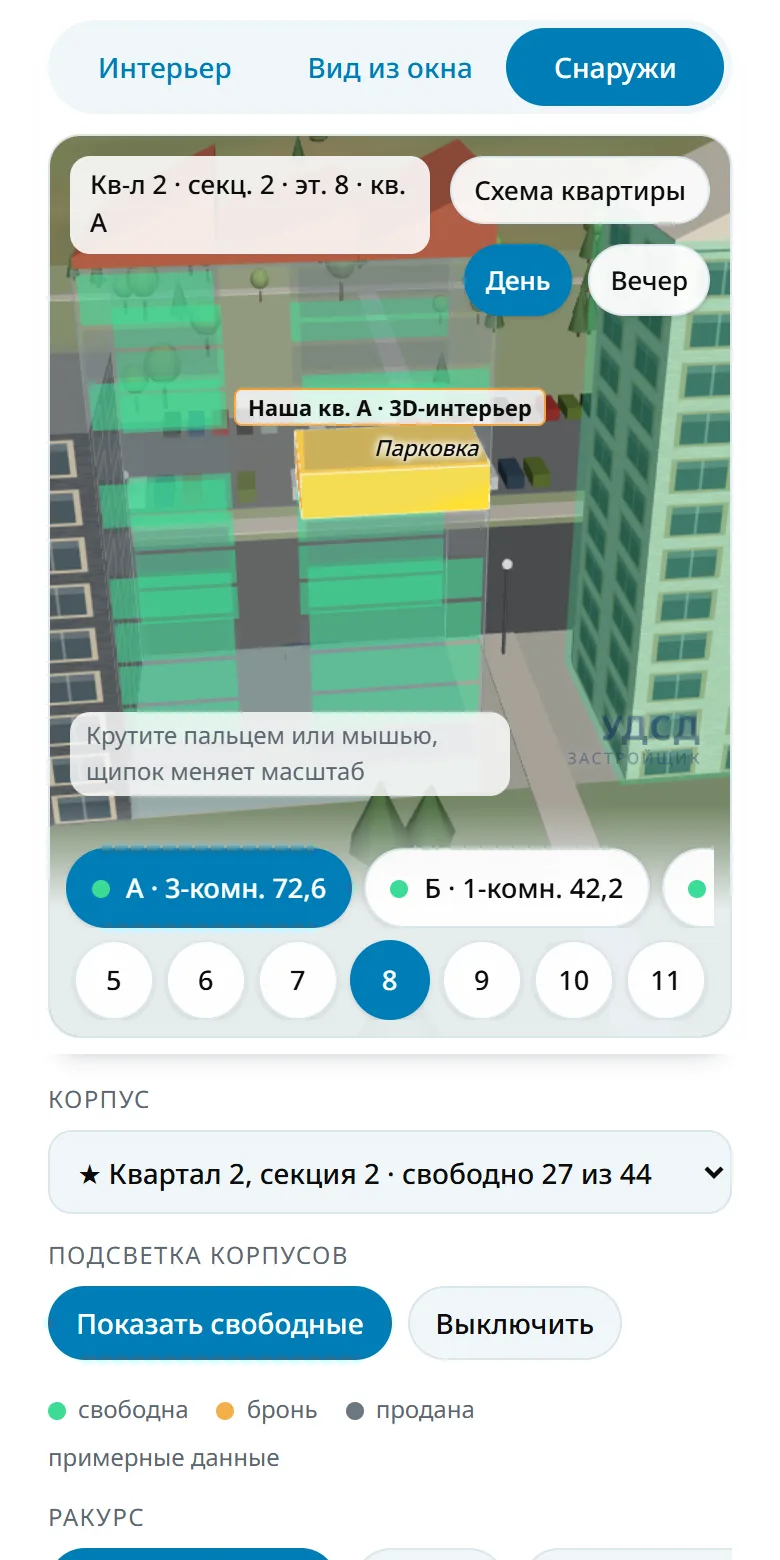
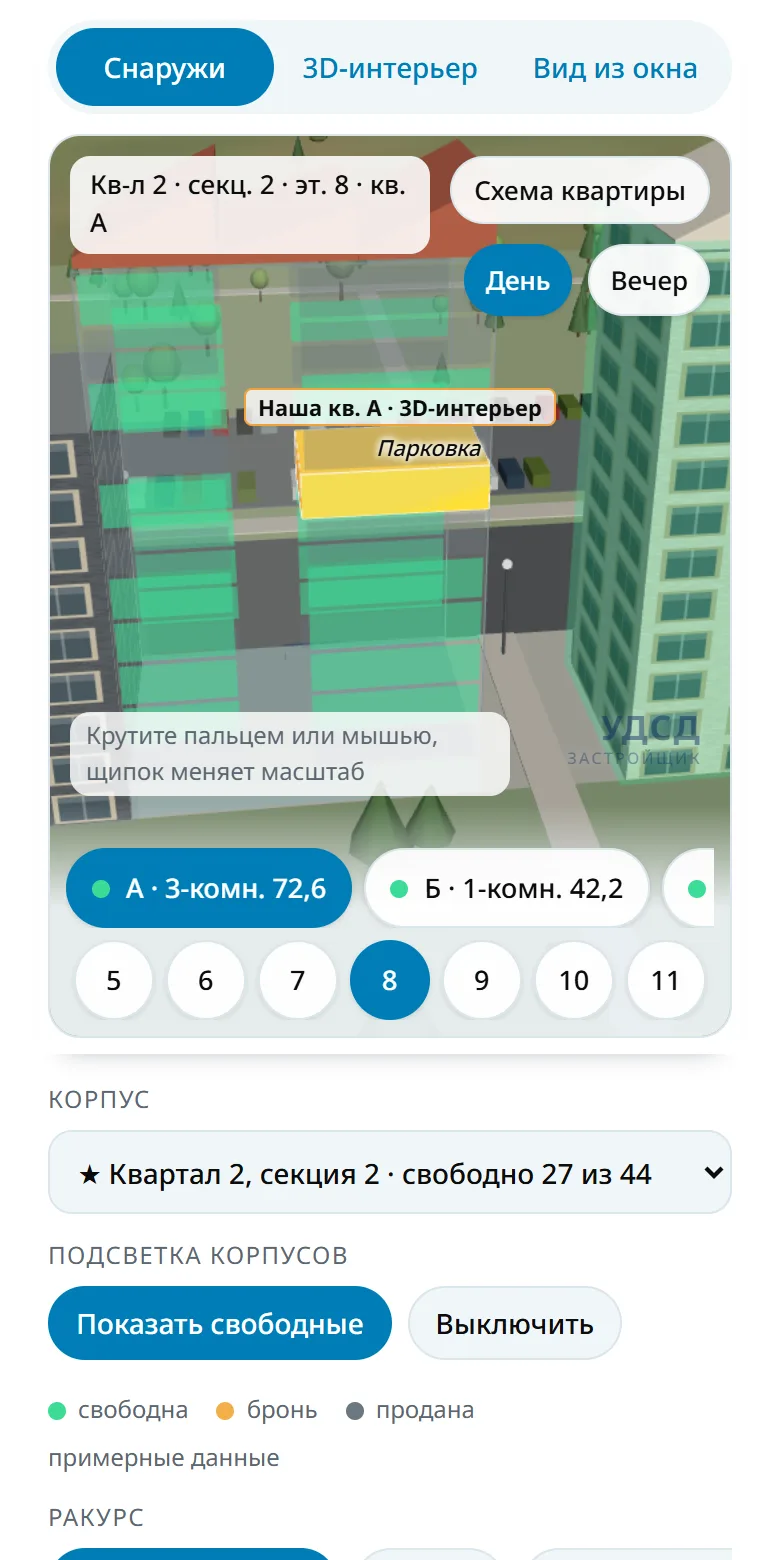
Демо: вкладки Снаружи → 3D-интерьер → Вид из окна, старт снаружи
Экраны в КП переставлены в том же порядке; tools/mockups.js и tools/screens.js учитывают новый старт.

diff --git a/index.html b/index.html
@@ -214,16 +214,16 @@ footer{border-top:1px solid var(--line);padding:32px 0 40px;margin-top:20px}
         <b><span>01</span>Свободные квартиры</b><p>Корпуса со свободными квартирами подсвечены, на каждом — сколько свободно.</p></li>
       <li><div class="phone"><img src="img/mock-facade.webp" width="780" height="1560" loading="lazy" alt="Дом полупрозрачный, выбранная квартира на 8 этаже выделена, внизу кнопки квартир и этажей"></div>
         <b><span>02</span>Выбор на фасаде</b><p>Дом прозрачный, квартира выделена. Этаж и квартира — кнопками на сцене.</p></li>
+      <li><div class="phone"><img src="img/mock-city.webp" width="780" height="1560" loading="lazy" alt="Карта Нового Уренгоя: микрорайоны, Северная и Южная части города, реки и дороги, отмечен ЖК «Новелла»"></div>
+        <b><span>03</span>Весь город</b><p>Микрорайоны, части города, реки и дороги — где дом относительно всего.</p></li>
       <li><div class="phone"><img src="img/mock-design.webp" width="780" height="1560" loading="lazy" alt="Трёхкомнатная квартира сверху со срезанными стенами, мебель дизайн-проекта и площади комнат"></div>
-        <b><span>03</span>Интерьер с дизайном</b><p>Вся квартира сверху, стены срезаны. Площадь каждой комнаты.</p></li>
+        <b><span>04</span>3D-интерьер с дизайном</b><p>Вся квартира сверху, стены срезаны. Площадь каждой комнаты.</p></li>
       <li><div class="phone"><img src="img/mock-bare.webp" width="780" height="1560" loading="lazy" alt="Гостиная в предчистовой отделке с уровня глаз, мини-карта квартиры"></div>
-        <b><span>04</span>«Как продаем»</b><p>Предчистовая отделка с уровня глаз. Прогулка касанием по полу.</p></li>
-      <li><div class="phone"><img src="img/mock-window.webp" width="780" height="1560" loading="lazy" alt="Вид из окна гостиной с 8 этажа на соседние дома"></div>
-        <b><span>05</span>Вид из окна</b><p>С выбранного этажа и из каждой комнаты, днём и вечером.</p></li>
+        <b><span>05</span>«Как продаем»</b><p>Предчистовая отделка с уровня глаз. Прогулка касанием по полу.</p></li>
       <li><div class="phone"><img src="img/mock-plan.webp" width="780" height="1560" loading="lazy" alt="План этажа сверху: квартира, соседние квартиры со статусами, лифты, холл и лестница"></div>
         <b><span>06</span>План этажа</b><p>Соседи по площадке со статусами, лифты, холл и лестница.</p></li>
-      <li><div class="phone"><img src="img/mock-city.webp" width="780" height="1560" loading="lazy" alt="Карта Нового Уренгоя: микрорайоны, Северная и Южная части города, реки и дороги, отмечен ЖК «Новелла»"></div>
-        <b><span>07</span>Весь город</b><p>Микрорайоны, части города, реки и дороги — где дом относительно всего.</p></li>
+      <li><div class="phone"><img src="img/mock-window.webp" width="780" height="1560" loading="lazy" alt="Вид из окна гостиной с 8 этажа на соседние дома"></div>
+        <b><span>07</span>Вид из окна</b><p>С выбранного этажа и из каждой комнаты, днём и вечером.</p></li>
       <li><div class="cta"><b>Посмотрите сами</b><p class="note">Демо открывается по ссылке на телефоне и компьютере, без установки.</p><a class="btn pri" href="demo/">Открыть демо</a></div></li>
     </ul>
     <div class="swipe">Листайте вбок →</div>

diff --git a/tools/mockups.js b/tools/mockups.js
@@ -12,13 +12,14 @@ fs.mkdirSync(OUT, { recursive: true });
 
 const chip = ([sel, text]) => [...document.querySelectorAll(sel + ' .chip')].find((c) => c.textContent.includes(text)).click();
 const SHOTS = [
-  ['mock-free', async (p) => { await p.click('#tExt'); await p.waitForTimeout(1500); await p.evaluate(chip, ['#rExtView', 'Все корпуса']); }],
-  ['mock-facade', async (p) => { await p.click('#tExt'); }],
-  ['mock-design', async () => {}],
-  ['mock-bare', async (p) => { await p.evaluate(chip, ['#rFinish', 'Как продаем']); await p.evaluate(chip, ['#rView', 'Гостиная']); await p.evaluate(chip, ['#rCam', 'Хожу']); }],
-  ['mock-window', async (p) => { await p.click('#tWin'); }],
-  ['mock-plan', async (p) => { await p.evaluate(chip, ['#rView', 'План сверху']); }],
-  ['mock-city', async (p) => { await p.click('#tExt'); await p.waitForTimeout(1500); await p.evaluate(chip, ['#rExtView', 'Весь город']); }]
+  // in the order of the demo's tabs: Снаружи, 3D-интерьер, Вид из окна (the demo opens on Снаружи)
+  ['mock-free', async (p) => { await p.evaluate(chip, ['#rExtView', 'Все корпуса']); }],
+  ['mock-facade', async () => {}],
+  ['mock-city', async (p) => { await p.evaluate(chip, ['#rExtView', 'Весь город']); }],
+  ['mock-design', async (p) => { await p.click('#tInt'); }],
+  ['mock-bare', async (p) => { await p.click('#tInt'); await p.waitForTimeout(800); await p.evaluate(chip, ['#rFinish', 'Как продаем']); await p.evaluate(chip, ['#rView', 'Гостиная']); await p.evaluate(chip, ['#rCam', 'Хожу']); }],
+  ['mock-plan', async (p) => { await p.click('#tInt'); await p.waitForTimeout(800); await p.evaluate(chip, ['#rView', 'План сверху']); }],
+  ['mock-window', async (p) => { await p.click('#tWin'); }]
 ];
 
 (async () => {

diff --git a/demo/index.html b/demo/index.html
@@ -165,9 +165,9 @@ svg text{font-family:var(--f-body)}
   <!-- the mode tabs and the 3D stage stay pinned at the top while the controls and the card below scroll under them -->
   <div class="pin" id="pin">
   <div class="tabs" role="group" aria-label="Режим">
-    <button type="button" id="tInt" aria-pressed="true">Интерьер</button>
+    <button type="button" id="tExt" aria-pressed="true">Снаружи</button>
+    <button type="button" id="tInt" aria-pressed="false">3D-интерьер</button>
     <button type="button" id="tWin" aria-pressed="false">Вид из окна</button>
-    <button type="button" id="tExt" aria-pressed="false">Снаружи</button>
   </div>
 
   <div class="stage" id="stage">
@@ -1741,6 +1741,8 @@ svg text{font-family:var(--f-body)}
   refreshMaterials(); applyVisibility();
   resize(); const c0 = camFor('overview'); camera.position.set(...c0.pos); controls.target.set(...c0.tgt); limits();
   resize(); refresh();
+  // the buyer's path starts outside: the demo opens on «Снаружи» at our apartment (the interior above is set up for when they go in)
+  S.sec = towerSec.i; S.apt = 'a'; S.inner = false; S.extView = 'yard'; enterExt(true); refresh(true);
   requestAnimationFrame(frame);
   window.__nv = { S: S, walk: walk, startWalk: startWalk, enterWindow: enterWindow, enterInterior: enterInterior, refresh: refresh, camera: camera, describe: describe, data: DATA_OK ? 'json' : 'generated' };
 });

diff --git a/tools/screens.js b/tools/screens.js
@@ -17,6 +17,7 @@ fs.mkdirSync(out, { recursive: true });
   const chip = (sel, text) => page.evaluate(([s, t]) => { [...document.querySelectorAll(s + ' .chip')].find((c) => c.textContent.includes(t)).click(); }, [sel, text]);
 
   await page.goto('file://' + path.join(root, 'demo/index.html'));
+  await page.waitForTimeout(2500); await page.click('#tInt');   // the demo opens on «Снаружи»
   await shot('01-interior');
   await chip('#rView', 'План сверху'); await shot('02-plan-neighbours');
   await chip('#rFinish', 'Как продаем'); await chip('#rTime', 'Вечер'); await shot('03-bare-evening');

diff --git a/CLAUDE.md b/CLAUDE.md
@@ -44,3 +44,4 @@
 ## Проверка
 `node tools/screens.js` (нужен `npm i playwright` и `npx playwright install chromium`) — снимает основные режимы на 420×900 в `shots/`. После правок: синтаксис (`node --check` на извлечённом скрипте), скриншоты, ручной просмотр на телефоне.
 - Вкладки режимов и 3D-сцена обёрнуты в `.pin` (`position:sticky; top:0`): при прокрутке к панелям ниже сцена остаётся на месте (просьба пользователя, 27.10.2026). Высота сцены `clamp(340px,58vh,640px)`, чтобы под ней оставалось место; при высоте окна < 560px (телефон боком) не закрепляется.
+- Порядок вкладок: **Снаружи → 3D-интерьер → Вид из окна**; демо открывается на «Снаружи» у нашей квартиры (в конце инициализации `enterExt`). Экраны в КП и `tools/mockups.js` — в том же порядке.
